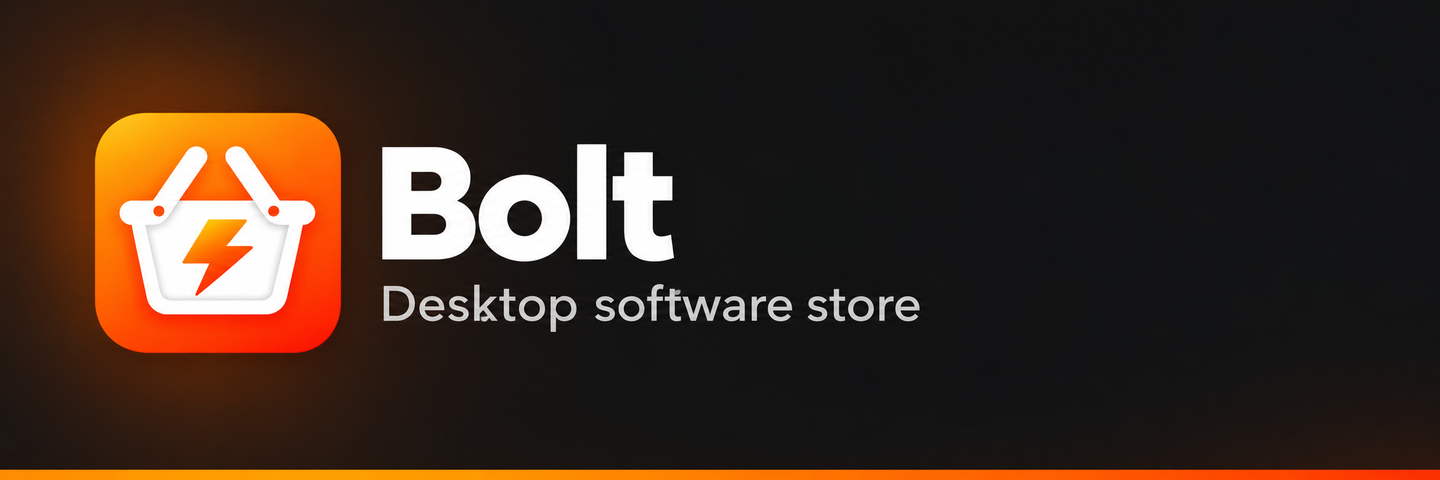
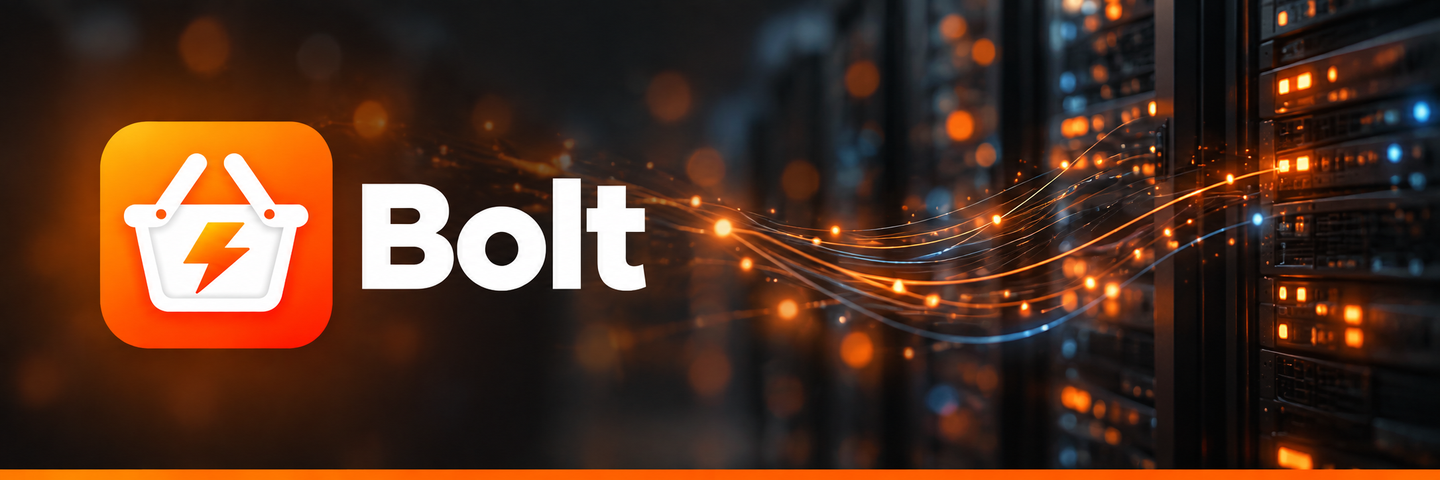
Change header image

diff --git a/README.md b/README.md
@@ -1,7 +1,7 @@
 # Bolt
 
 <p align="center">
-  <img src="docs/assets/bolt-header.png" alt="Bolt — Desktop software store" width="900" />
+  <img src="docs/assets/bolt-header.png" alt="Bolt — servers and flowing data" width="900" />
 </p>
 
 **English** | [Deutsch](README.de.md) | [Français](README.fr.md) | [Español](README.es.md) | [Português](README.pt.md) | [中文](README.zh.md) | [日本語](README.ja.md) | [Magyar](README.hu.md)
